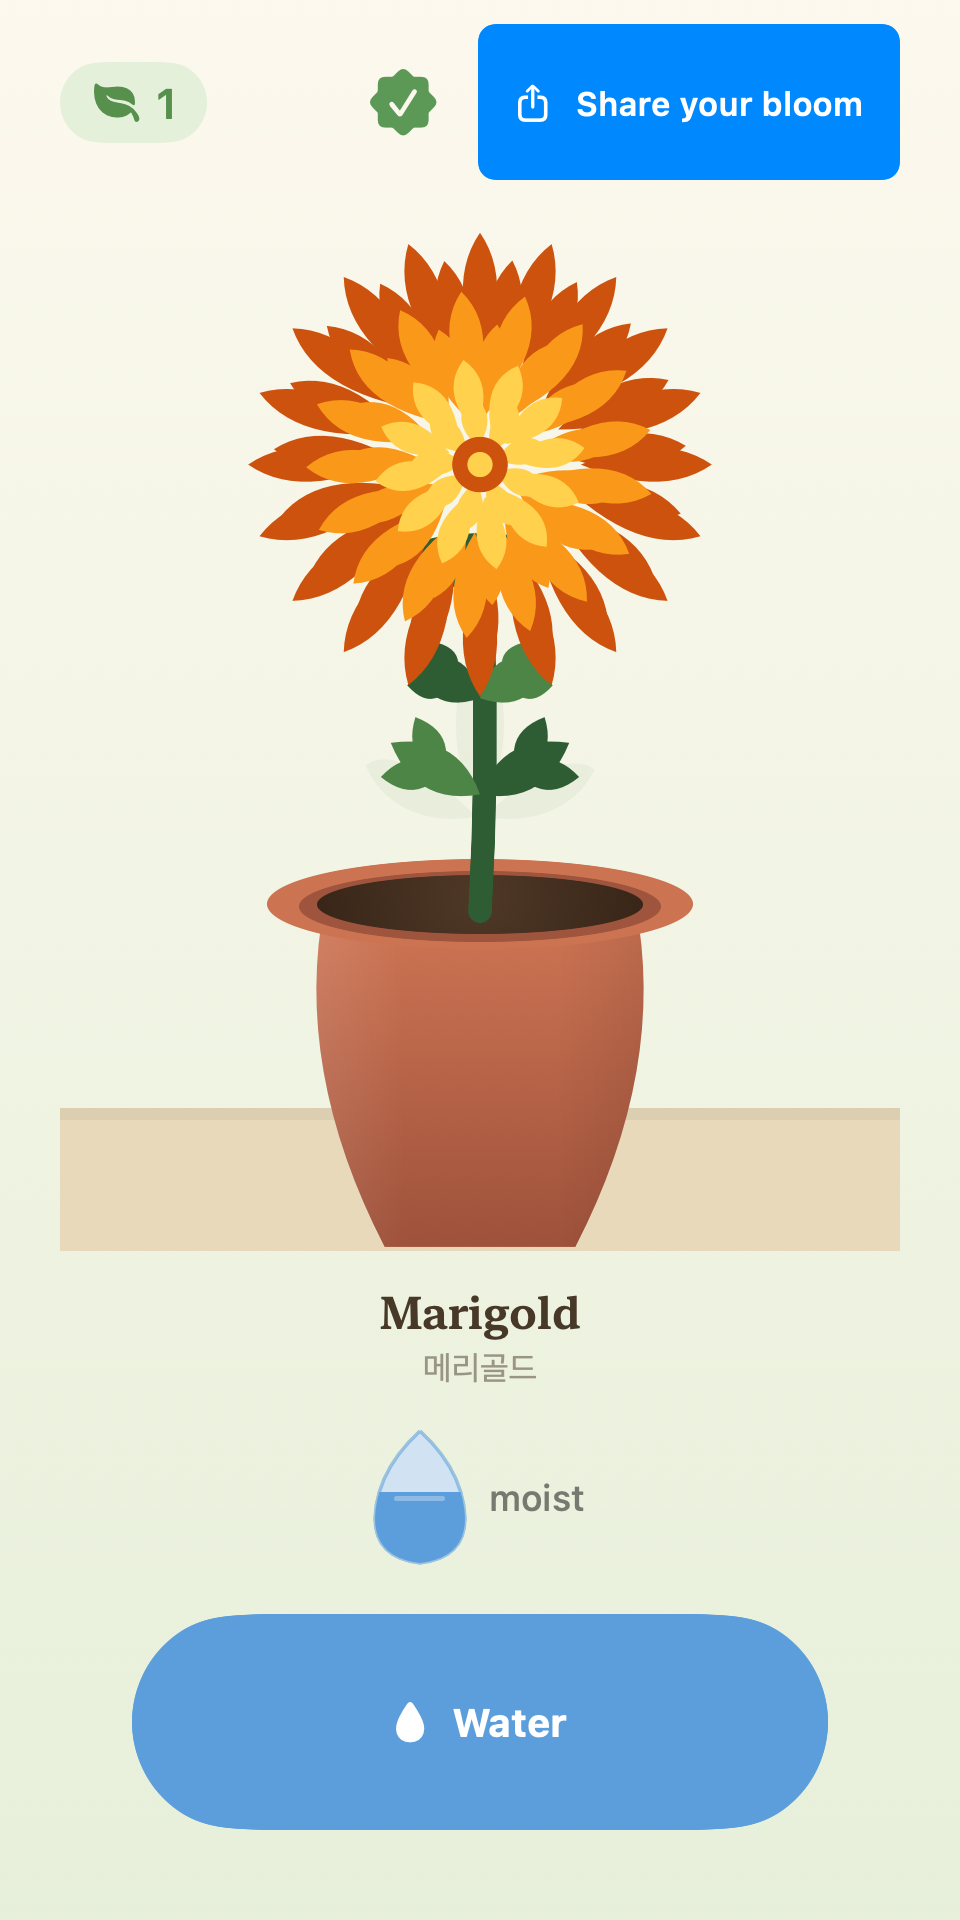
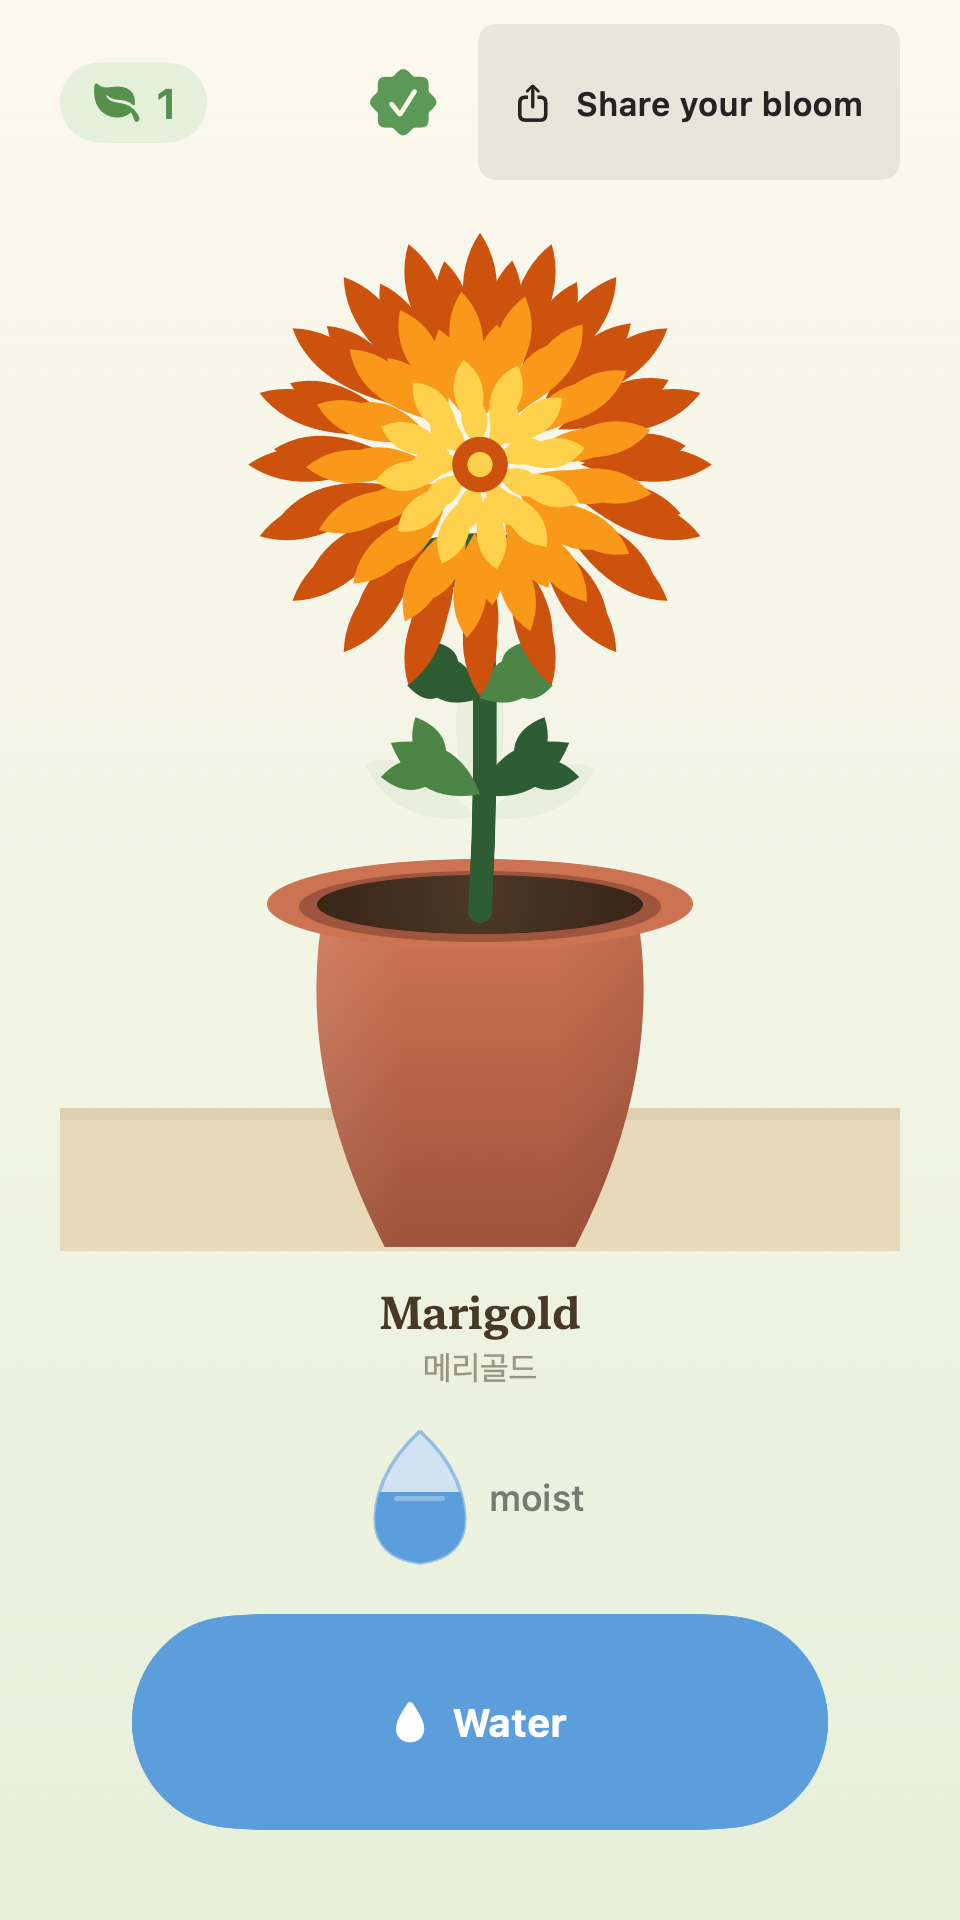
fix(ui): on-device polish — glass Share CTA + dark-mode ledge (verified on iOS 26 sim)
Built and ran the real app on the iOS 26.5 Simulator (first-ever iOS compile of the
#if os(iOS) Liquid Glass code — it compiled clean). Two issues found only on-device:
- At bloom, the promoted Share was a second loud .glassProminent blue button next to
  Water. Now 'prominent' only labels the button, keeping the quiet translucent .glass
  style → Water is the single prominent action; Share reads as a frosted glass CTA.
- The Sill ledge glared bright in dark mode. Sill board now dims via @user
  colorScheme; light path unchanged → wall:true byte-stability re-verified.
Re-approved windowsill_bloom_day/_dark references. Confirmed on device: real glass
tab bar, real-time dusk sky, dark mode, idle chrome-fade.

Changed region(s): [[0.5, 0.0, 0.9375, 0.0938]]

diff --git a/SsakApp/Sources/SsakApp/GlassBackground.swift b/SsakApp/Sources/SsakApp/GlassBackground.swift
@@ -92,17 +92,14 @@ public struct GlassIconButton: View {
         }
         .frame(minWidth: 44, minHeight: 44)                            // ≥44pt tap target (spec §1.6)
 
+        // `prominent` only promotes the icon to a *labeled* button — it keeps the quiet .glass
+        // style so it never competes with the prominent-blue Water pill (found on-device: at bloom,
+        // a prominent Share was a second loud blue button next to Water).
         #if os(iOS)
         if #available(iOS 26.0, *) {
-            if prominent {
-                return AnyView(Button(action: action) { content }.buttonStyle(.glassProminent).accessibilityLabel(label))
-            }
             return AnyView(Button(action: action) { content }.buttonStyle(.glass).accessibilityLabel(label))
         }
         #endif
-        if prominent {
-            return AnyView(Button(action: action) { content }.buttonStyle(.borderedProminent).accessibilityLabel(label))
-        }
         return AnyView(Button(action: action) { content }.buttonStyle(.bordered).accessibilityLabel(label))
     }
 }

diff --git a/SsakArt/Sources/SsakArt/Backdrop.swift b/SsakArt/Sources/SsakArt/Backdrop.swift
@@ -6,6 +6,7 @@ public struct Sill: View {
     /// original for every existing caller. `wall: false` draws only the board/ledge, so a
     /// caller (WindowsillView) can layer its own live `SkyBackdrop` behind (spec §3.3).
     public init(wall: Bool = true) { self.wall = wall }
+    @Environment(\.colorScheme) private var scheme   // board dims in dark mode (light path unchanged → byte-stable)
     public var body: some View {
         GeometryReader { geo in
             let h = geo.size.height
@@ -19,9 +20,10 @@ public struct Sill: View {
                                             Color(red: 0.97, green: 0.93, blue: 0.85)],
                                    startPoint: .top, endPoint: .bottom)
                 }
-                // sill board the pot rests on
+                // sill board the pot rests on — dim in dark mode so it recedes into the night sky
                 Rectangle()
-                    .fill(Color(red: 0.91, green: 0.85, blue: 0.73))
+                    .fill(scheme == .dark ? Color(red: 0.32, green: 0.27, blue: 0.20)
+                                          : Color(red: 0.91, green: 0.85, blue: 0.73))
                     .frame(height: h * 0.14)
                     .overlay(alignment: .top) {                    // thin front lip shadow
                         Rectangle().fill(Color.black.opacity(0.05)).frame(height: h * 0.012)